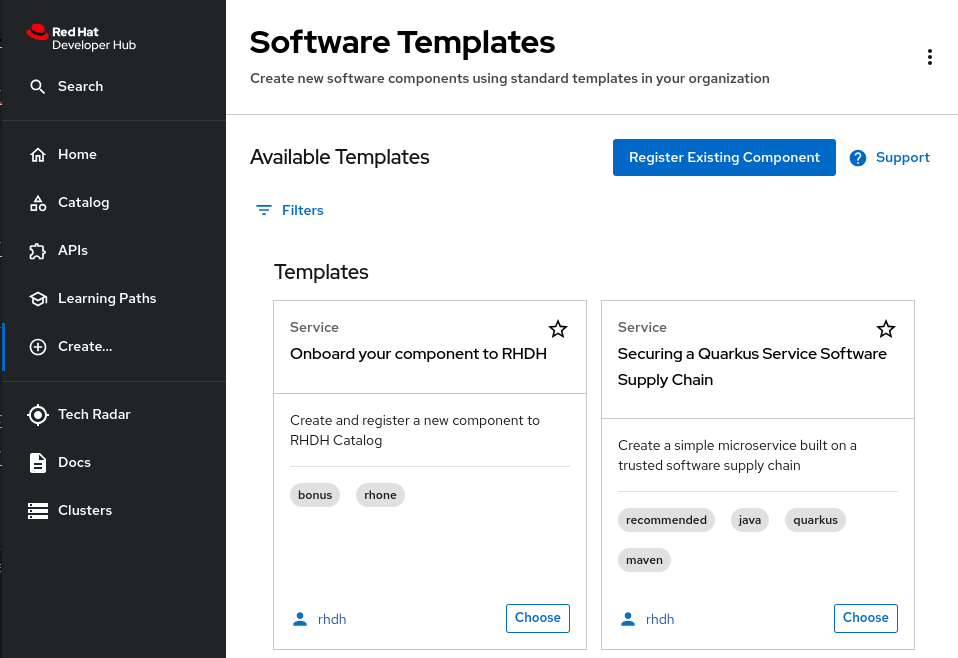
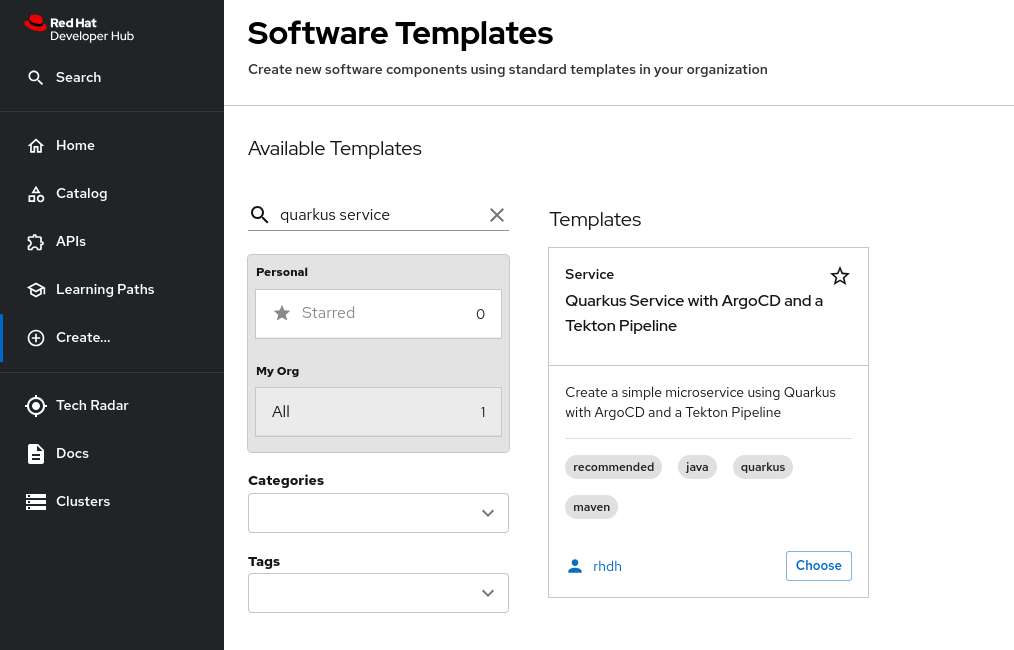
[CI] Publish Documentation for 6a862c55bbc1798773a3e212c59297330dbce164 - 6a862c55bbc1798773a3e212c59297330dbce164 🚀

diff --git a/template-tutorial/02-explorar-aplicacion.html b/template-tutorial/02-explorar-aplicacion.html
@@ -3,10 +3,10 @@
   <head>
     <meta charset="utf-8">
     <meta name="viewport" content="width=device-width,initial-scale=1">
-    <title>Verificar pipeline de CI :: Summit Connect Madrid - Developer Hub</title>
-    <link rel="canonical" href="https://github.com/rhcs-workshops/redhat-workshop-developer-hub-init/template-tutorial/04-verificar-ci.html">
-    <link rel="prev" href="03-ci.html">
-    <link rel="next" href="05-dev-aplicacion.html">
+    <title>Explorar la nueva aplicación creada :: Summit Connect Madrid - Developer Hub</title>
+    <link rel="canonical" href="https://github.com/rhcs-workshops/redhat-workshop-developer-hub-init/template-tutorial/02-explorar-aplicacion.html">
+    <link rel="prev" href="01-golden-path.html">
+    <link rel="next" href="03-ci.html">
     <meta name="generator" content="Antora 3.0.0">
     <link rel="stylesheet" href="../_/css/site.css">
 <link rel="icon" href="../_/img/favicon.ico" type="image/x-icon">
@@ -74,13 +74,13 @@
   <li class="nav-item" data-depth="1">
     <a class="nav-link" href="01-golden-path.html">Golden Path</a>
   </li>
-  <li class="nav-item" data-depth="1">
+  <li class="nav-item is-current-page" data-depth="1">
     <a class="nav-link" href="02-explorar-aplicacion.html">Explorar aplicación</a>
   </li>
   <li class="nav-item" data-depth="1">
     <a class="nav-link" href="03-ci.html">Continous Integration (CI)</a>
   </li>
-  <li class="nav-item is-current-page" data-depth="1">
+  <li class="nav-item" data-depth="1">
     <a class="nav-link" href="04-verificar-ci.html">Verificar CI</a>
   </li>
   <li class="nav-item" data-depth="1">
@@ -116,72 +116,77 @@
 <nav class="breadcrumbs" aria-label="breadcrumbs">
   <ul>
     <li><a href="index.html">Summit Connect Madrid - Developer Hub</a></li>
-    <li><a href="04-verificar-ci.html">Verificar CI</a></li>
+    <li><a href="02-explorar-aplicacion.html">Explorar aplicación</a></li>
   </ul>
 </nav>
-  <div class="edit-this-page"><a href="https://github.com/rhcs-workshops/redhat-workshop-developer-hub-init/edit/master/documentation/modules/ROOT/pages/04-verificar-ci.adoc">Edit this Page</a></div>
+  <div class="edit-this-page"><a href="https://github.com/rhcs-workshops/redhat-workshop-developer-hub-init/edit/master/documentation/modules/ROOT/pages/02-explorar-aplicacion.adoc">Edit this Page</a></div>
   </div>
   <div class="content">
 <article class="doc">
-<h1 class="page">Verificar pipeline de CI</h1>
-<div class="ulist">
-<ul>
-<li>
-<p>La pestaña CI te permite seguir el progreso de la build pipeline (proceso automatizado que compila, prueba y despliega aplicaciones desde el código fuente hasta producción) para el componente my-quarkus-app.</p>
-</li>
-</ul>
+<h1 class="page">Explorar la nueva aplicación creada</h1>
+<div class="paragraph">
+<p>Tras hacer click en el enlace <strong>Open Component in catalog</strong>, accederás a la página que mostrará toda la información de tu aplicación previamente creada.</p>
 </div>
-<div class="imageblock">
-<div class="content">
-<img src="_images/CI_8.png" alt="CI 8">
+<div class="paragraph">
+<p>En primer lugar, se mostrará la pestaña <strong>Overview</strong> en la cual verás:</p>
 </div>
-</div>
-<div class="ulist">
-<ul>
-<li>
-<p>Observa cómo las medidas de seguridad están integradas en el proceso de compilación, de acuerdo con las políticas establecidas por el equipo de seguridad.</p>
-</li>
-<li>
-<p>Estas medidas incluyen:</p>
 <div class="olist arabic">
 <ol class="arabic">
 <li>
-<p>Análisis estático de código usando Sonarqube.</p>
+<p><em>Links</em>: Enlaces a IDEs.</p>
 </li>
 <li>
-<p>Verifica que el último commit, el cual activó la pipeline, está digitalmente firmado por una fuente de confianza.</p>
+<p><em>About</em>: Breve información de la nueva aplicación, así como enlaces a tu repositorio en GitLab y a la documentación de la aplicación.</p>
 </li>
 <li>
-<p>Generación de SBOM (Software Bill of Materials), para obtener información sobre la composición de la aplicación.</p>
+<p><em>Merge requests statistics</em>: Estadísiticas de Git.</p>
 </li>
 <li>
-<p>Integración con ACS (Advanced Cluster Security) para escanear la imagen en busca de vulnerabilidades.</p>
+<p><em>Deployment Summary</em>: Un resumen de los despliegues de la aplicación.</p>
 </li>
 </ol>
 </div>
-</li>
-<li>
-<p>Como desarrollador, no tienes que preocuparte de estos aspectos complejos.</p>
-</li>
-<li>
-<p>Todos ellos están preparados mediante el Golden Path, lo que garantiza un proceso de desarrollo ágil y seguro.</p>
-</li>
-<li>
-<p>De hecho, incluso podríamos sustituir Tekton por otra herramienta de CI, ¡y no tendrías que preocuparte por los detalles!</p>
-</li>
-<li>
-<p>Una vez completada la ejecución de la build pipeline, revisamos el estado de nuestra aplicación.</p>
-</li>
-</ul>
+<div class="paragraph">
+<p>Este último punto <strong>Deployment Summary</strong> es el importante ahora, ya que veremos si se han desplegado o no todos los componentes necesarios de nuestra aplicación.</p>
+</div>
+<div class="paragraph">
+<p>La información que se muestra en pantalla deberá ser parecida a la siguiente imagen:</p>
 </div>
 <div class="imageblock">
 <div class="content">
-<img src="_images/CI_9.png" alt="CI 9">
+<img src="_images/Explorar-app-1.png" alt="Explorar app 1">
 </div>
+</div>
+<div class="paragraph">
+<p>En este primer paso del laboratorio debemos esperar a que los componentes de construcción de la aplicación se desplieguen. Para ello, en la sección <em>Deployment Summary</em> debemos esperar a que la aplicación de ArgoCD <strong>my-quarkus-app-dev-build</strong> esté en estado <strong>Synced</strong> y <strong>Healthy</strong>.</p>
+</div>
+<div class="imageblock">
+<div class="content">
+<img src="_images/Explorar-app-2.png" alt="Explorar app 2">
+</div>
+</div>
+<div class="quoteblock">
+<blockquote>
+<div class="admonitionblock note">
+<table>
+<tr>
+<td class="icon">
+<i class="fa icon-note" title="Note"></i>
+</td>
+<td class="content">
+El nombre de la aplicación será el nombre que has introducido previamente con el sufijo dev-build
+</td>
+</tr>
+</table>
+</div>
+</blockquote>
+</div>
+<div class="paragraph">
+<p>Una vez la aplicación de ArgoCD esté en <strong>Healthy</strong>, ve al siguiente paso <strong>Continuous Integration (CI)</strong>.</p>
 </div>
 <nav class="pagination">
-  <span class="prev"><a href="03-ci.html" class="query-params-link">Continous Integration (CI)</a></span>
-  <span class="next"><a href="05-dev-aplicacion.html" class="query-params-link">Probar aplicación en desarrollo</a></span>
+  <span class="prev"><a href="01-golden-path.html" class="query-params-link">Golden Path</a></span>
+  <span class="next"><a href="03-ci.html" class="query-params-link">Continous Integration (CI)</a></span>
 </nav>
 </article>
 <aside class="toc sidebar" data-title="Contents" data-levels="2">

diff --git a/template-tutorial/01-golden-path.html b/template-tutorial/01-golden-path.html
@@ -6,7 +6,7 @@
     <title>Lanzando tu primera Golden Path Template (GPT) :: Summit Connect Madrid - Developer Hub</title>
     <link rel="canonical" href="https://github.com/rhcs-workshops/redhat-workshop-developer-hub-init/template-tutorial/01-golden-path.html">
     <link rel="prev" href="index.html">
-    <link rel="next" href="02-crear-aplicacion.html">
+    <link rel="next" href="02-explorar-aplicacion.html">
     <meta name="generator" content="Antora 3.0.0">
     <link rel="stylesheet" href="../_/css/site.css">
 <link rel="icon" href="../_/img/favicon.ico" type="image/x-icon">
@@ -75,7 +75,7 @@
     <a class="nav-link" href="01-golden-path.html">Golden Path</a>
   </li>
   <li class="nav-item" data-depth="1">
-    <a class="nav-link" href="02-crear-aplicacion.html">Crear aplicación</a>
+    <a class="nav-link" href="02-explorar-aplicacion.html">Explorar aplicación</a>
   </li>
   <li class="nav-item" data-depth="1">
     <a class="nav-link" href="03-ci.html">Continous Integration (CI)</a>
@@ -161,7 +161,7 @@
 <p>Se te mostrarán todas las GPT que el equipo de Ingeniería de la Plataforma ha configurado para ti.</p>
 </li>
 <li>
-<p>Haz clic en el enlace <strong>Choose</strong> en la parte inferior derecha del recuadro "Securing a Quarkus Service Software Supply Chain" para seleccionar esta plantilla.</p>
+<p>Haz clic en el enlace <strong>Choose</strong> en la parte inferior derecha del recuadro "Quarkus Service with ArgoCD and a Tekton Pipeline" para seleccionar esta plantilla.</p>
 </li>
 </ul>
 </div>
@@ -176,15 +176,23 @@
 <p>A continuación, se te pedirá que completes un formulario simple con información básica.</p>
 </li>
 <li>
-<p>Modifica el <strong>Name</strong> con tu nombre y apellidos <strong>en minuscula</strong></p>
+<p>Modifica el <strong>Name</strong> con tu nombre y apellidos <strong>en minúscula</strong></p>
 </li>
 </ul>
 </div>
 <div class="quoteblock">
 <blockquote>
-<div class="paragraph">
-<p>[!WARNING]
-Tu nombre y apellidos tiene que ser todo en minuscula</p>
+<div class="admonitionblock warning">
+<table>
+<tr>
+<td class="icon">
+<i class="fa icon-warning" title="Warning"></i>
+</td>
+<td class="content">
+Tu nombre y apellidos tiene que ser todo en minúscula
+</td>
+</tr>
+</table>
 </div>
 </blockquote>
 </div>
@@ -257,7 +265,7 @@ Tu nombre y apellidos tiene que ser todo en minuscula</p>
 </div>
 <nav class="pagination">
   <span class="prev"><a href="index.html" class="query-params-link">Summit Connect Madrid - Developer Hub</a></span>
-  <span class="next"><a href="02-crear-aplicacion.html" class="query-params-link">Crear aplicación</a></span>
+  <span class="next"><a href="02-explorar-aplicacion.html" class="query-params-link">Explorar aplicación</a></span>
 </nav>
 </article>
 <aside class="toc sidebar" data-title="Contents" data-levels="2">

diff --git a/template-tutorial/03-ci.html b/template-tutorial/03-ci.html
@@ -5,7 +5,7 @@
     <meta name="viewport" content="width=device-width,initial-scale=1">
     <title>Realizar cambio en GitLab para lanzar al CI :: Summit Connect Madrid - Developer Hub</title>
     <link rel="canonical" href="https://github.com/rhcs-workshops/redhat-workshop-developer-hub-init/template-tutorial/03-ci.html">
-    <link rel="prev" href="02-crear-aplicacion.html">
+    <link rel="prev" href="02-explorar-aplicacion.html">
     <link rel="next" href="04-verificar-ci.html">
     <meta name="generator" content="Antora 3.0.0">
     <link rel="stylesheet" href="../_/css/site.css">
@@ -75,7 +75,7 @@
     <a class="nav-link" href="01-golden-path.html">Golden Path</a>
   </li>
   <li class="nav-item" data-depth="1">
-    <a class="nav-link" href="02-crear-aplicacion.html">Crear aplicación</a>
+    <a class="nav-link" href="02-explorar-aplicacion.html">Explorar aplicación</a>
   </li>
   <li class="nav-item is-current-page" data-depth="1">
     <a class="nav-link" href="03-ci.html">Continous Integration (CI)</a>
@@ -265,7 +265,7 @@
 </ul>
 </div>
 <nav class="pagination">
-  <span class="prev"><a href="02-crear-aplicacion.html" class="query-params-link">Crear aplicación</a></span>
+  <span class="prev"><a href="02-explorar-aplicacion.html" class="query-params-link">Explorar aplicación</a></span>
   <span class="next"><a href="04-verificar-ci.html" class="query-params-link">Verificar CI</a></span>
 </nav>
 </article>

diff --git a/template-tutorial/05-dev-aplicacion.html b/template-tutorial/05-dev-aplicacion.html
@@ -74,7 +74,7 @@
     <a class="nav-link" href="01-golden-path.html">Golden Path</a>
   </li>
   <li class="nav-item" data-depth="1">
-    <a class="nav-link" href="02-crear-aplicacion.html">Crear aplicación</a>
+    <a class="nav-link" href="02-explorar-aplicacion.html">Explorar aplicación</a>
   </li>
   <li class="nav-item" data-depth="1">
     <a class="nav-link" href="03-ci.html">Continous Integration (CI)</a>

diff --git a/template-tutorial/index.html b/template-tutorial/index.html
@@ -74,7 +74,7 @@
     <a class="nav-link" href="01-golden-path.html">Golden Path</a>
   </li>
   <li class="nav-item" data-depth="1">
-    <a class="nav-link" href="02-crear-aplicacion.html">Crear aplicación</a>
+    <a class="nav-link" href="02-explorar-aplicacion.html">Explorar aplicación</a>
   </li>
   <li class="nav-item" data-depth="1">
     <a class="nav-link" href="03-ci.html">Continous Integration (CI)</a>
